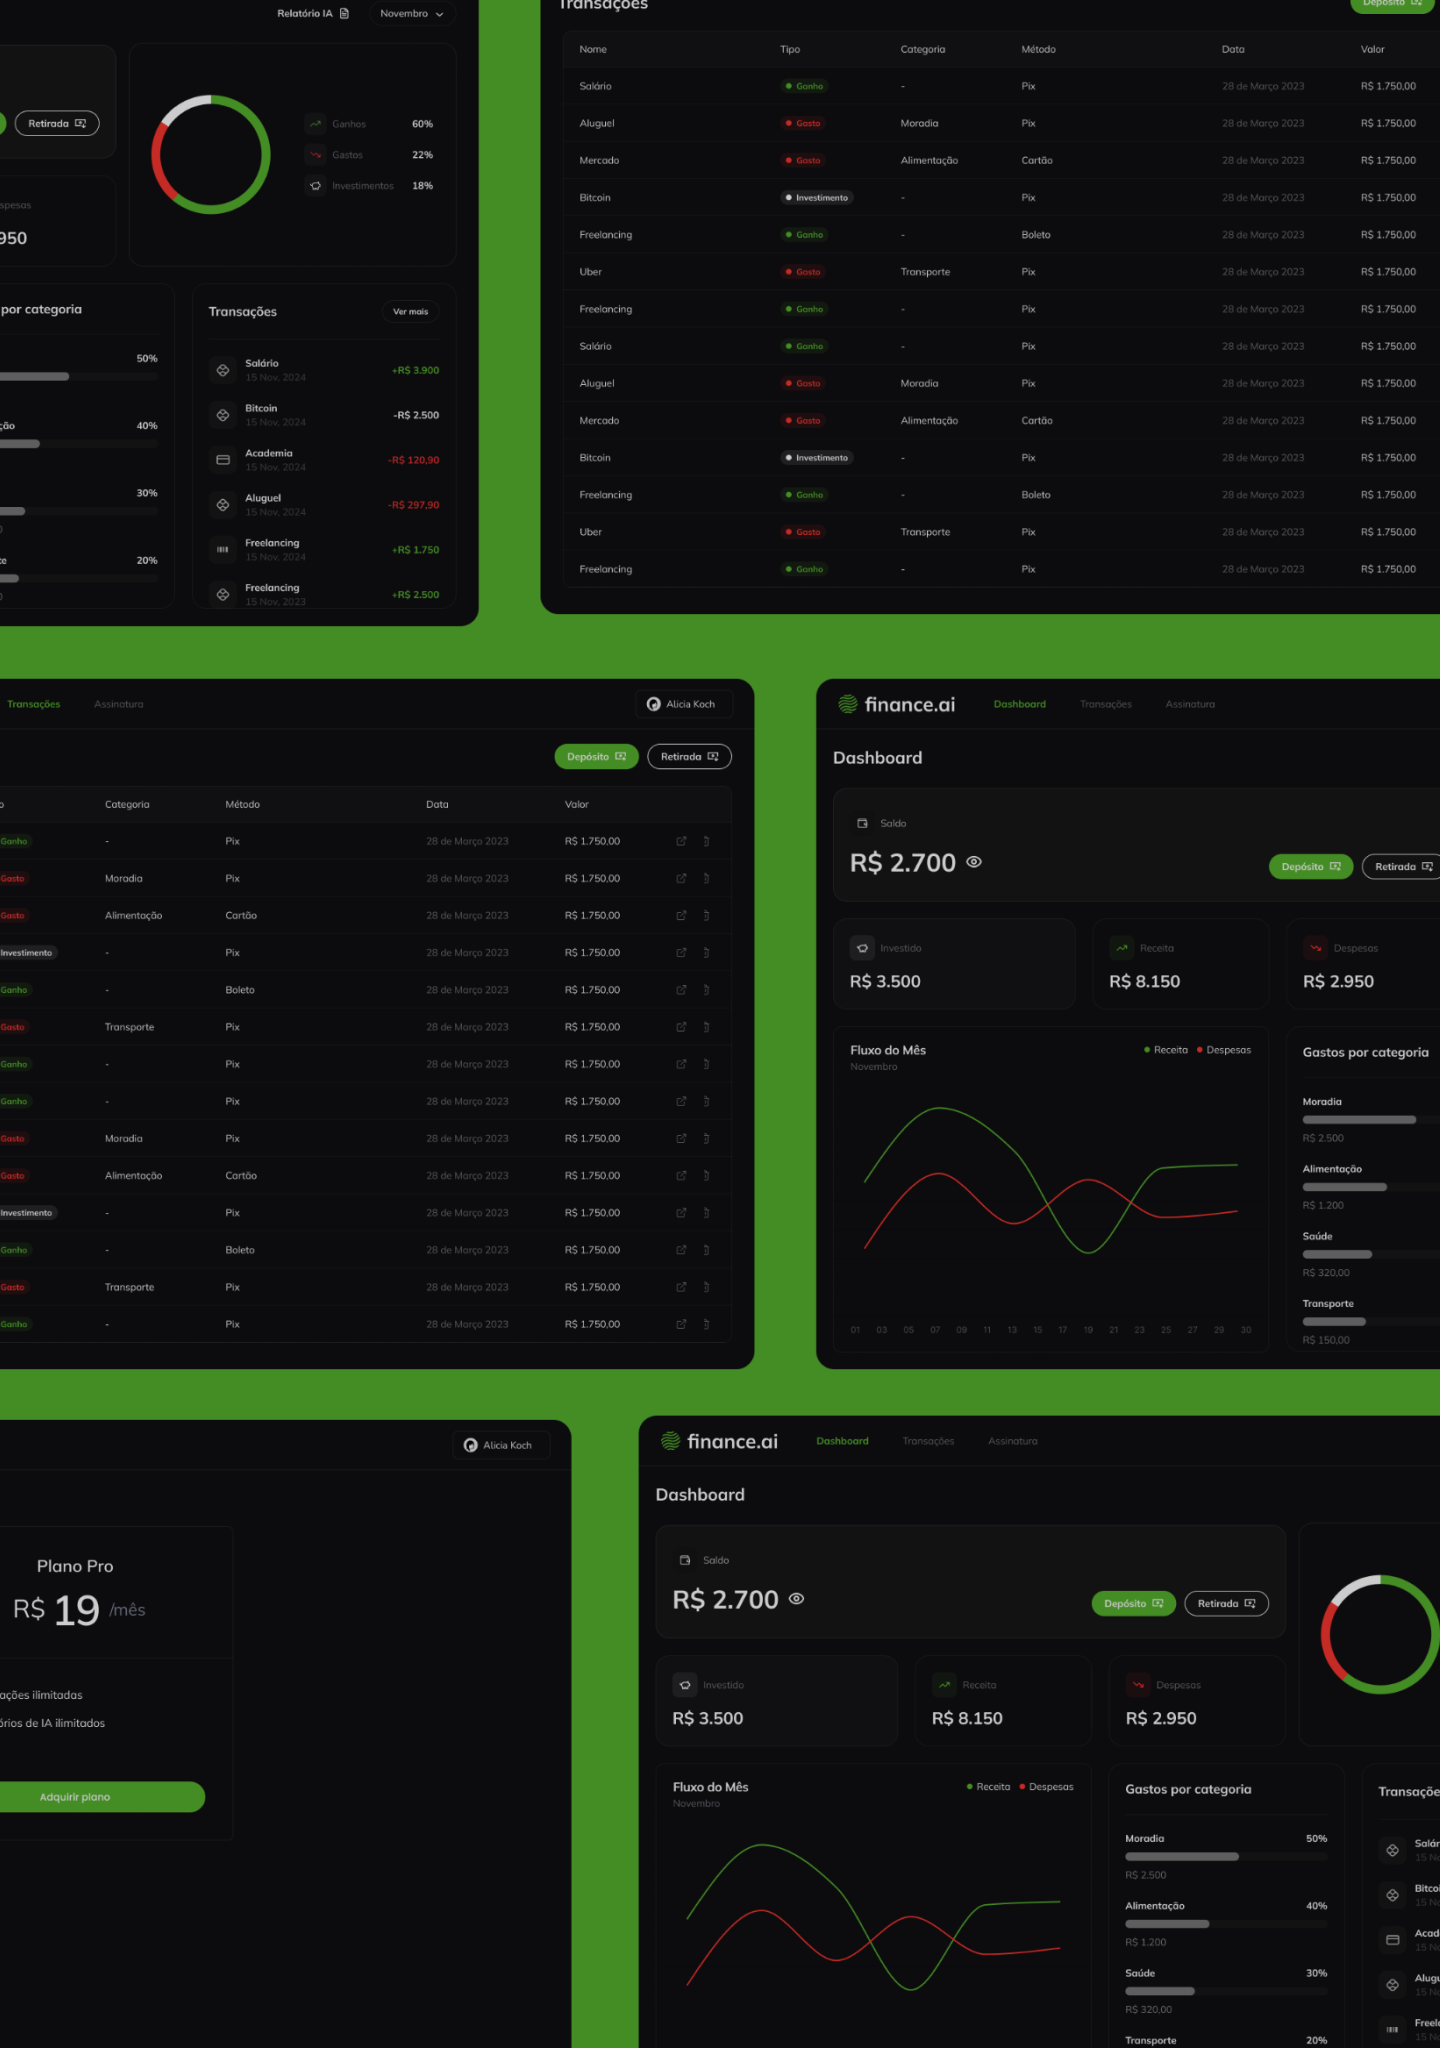
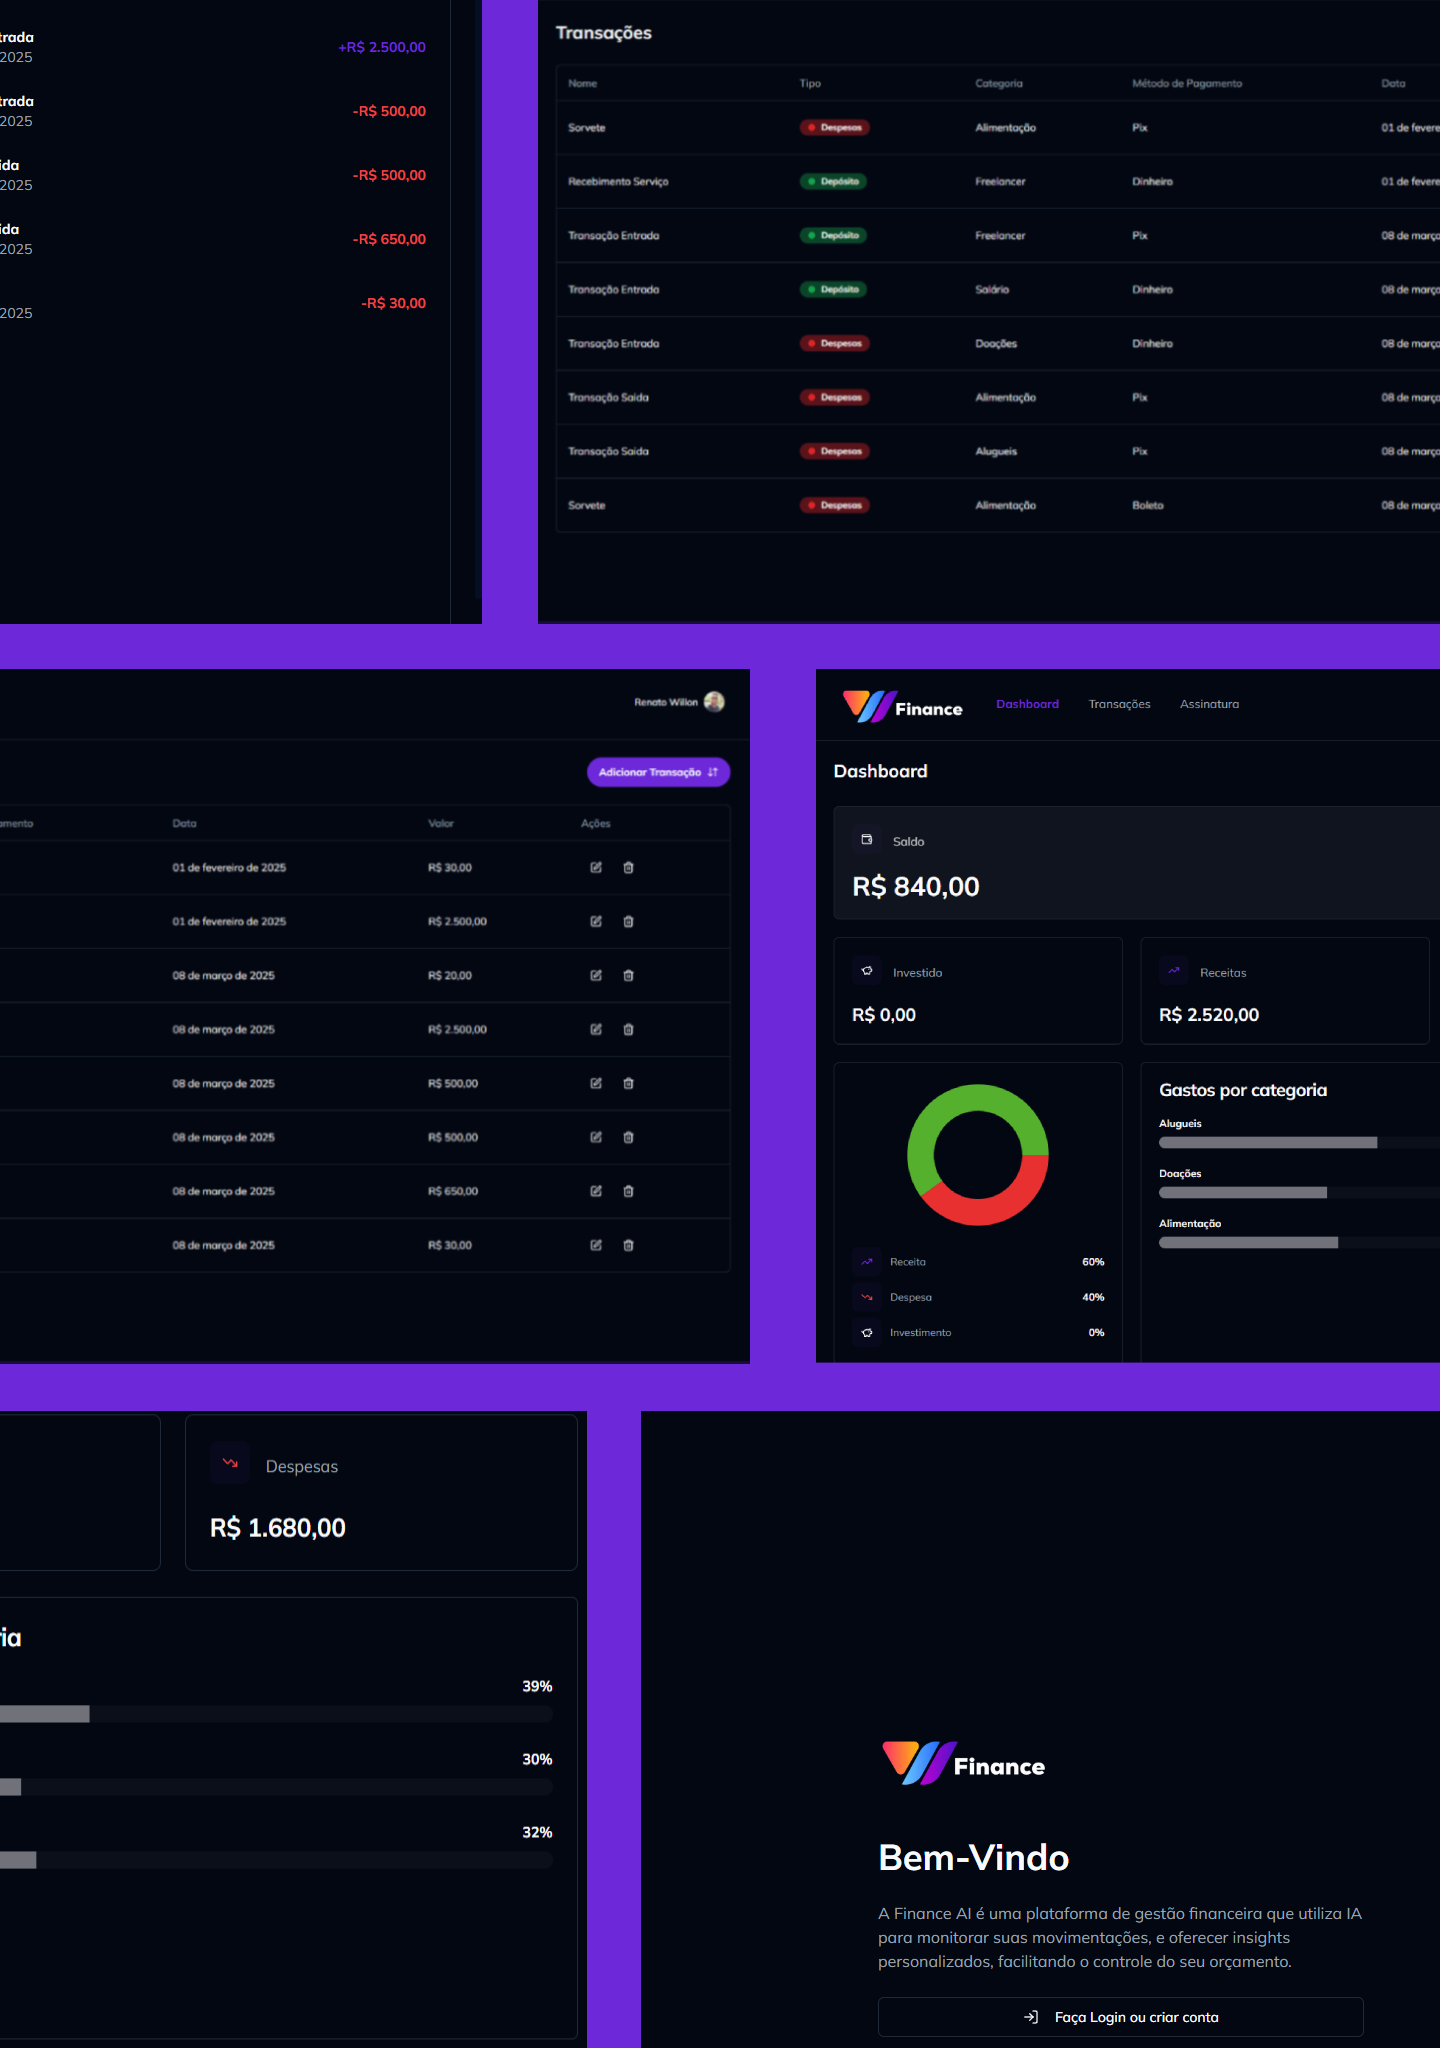
fix: correção de login e imagem

diff --git a/app/login/page.tsx b/app/login/page.tsx
@@ -13,7 +13,14 @@ const LoginPage = async () => {
   return (
     <div className="grid h-full grid-cols-2">
       <div className="mx-auto flex h-full max-w-[550px] flex-col justify-center gap-3 p-8">
-        <p className="mb-8 text-slate-600/50">Logo do SaaS</p>
+        <p className="mb-8 text-slate-600/50">
+          <Image
+            src="/logo-wfinance.png"
+            width={173}
+            height={39}
+            alt="Wfinance"
+          />
+        </p>
         <h1 className="mb-3 text-4xl font-bold">Bem-Vindo</h1>
         <p className="mb-3 text-muted-foreground">
           A Finance AI é uma plataforma de gestão financeira que utiliza IA para
